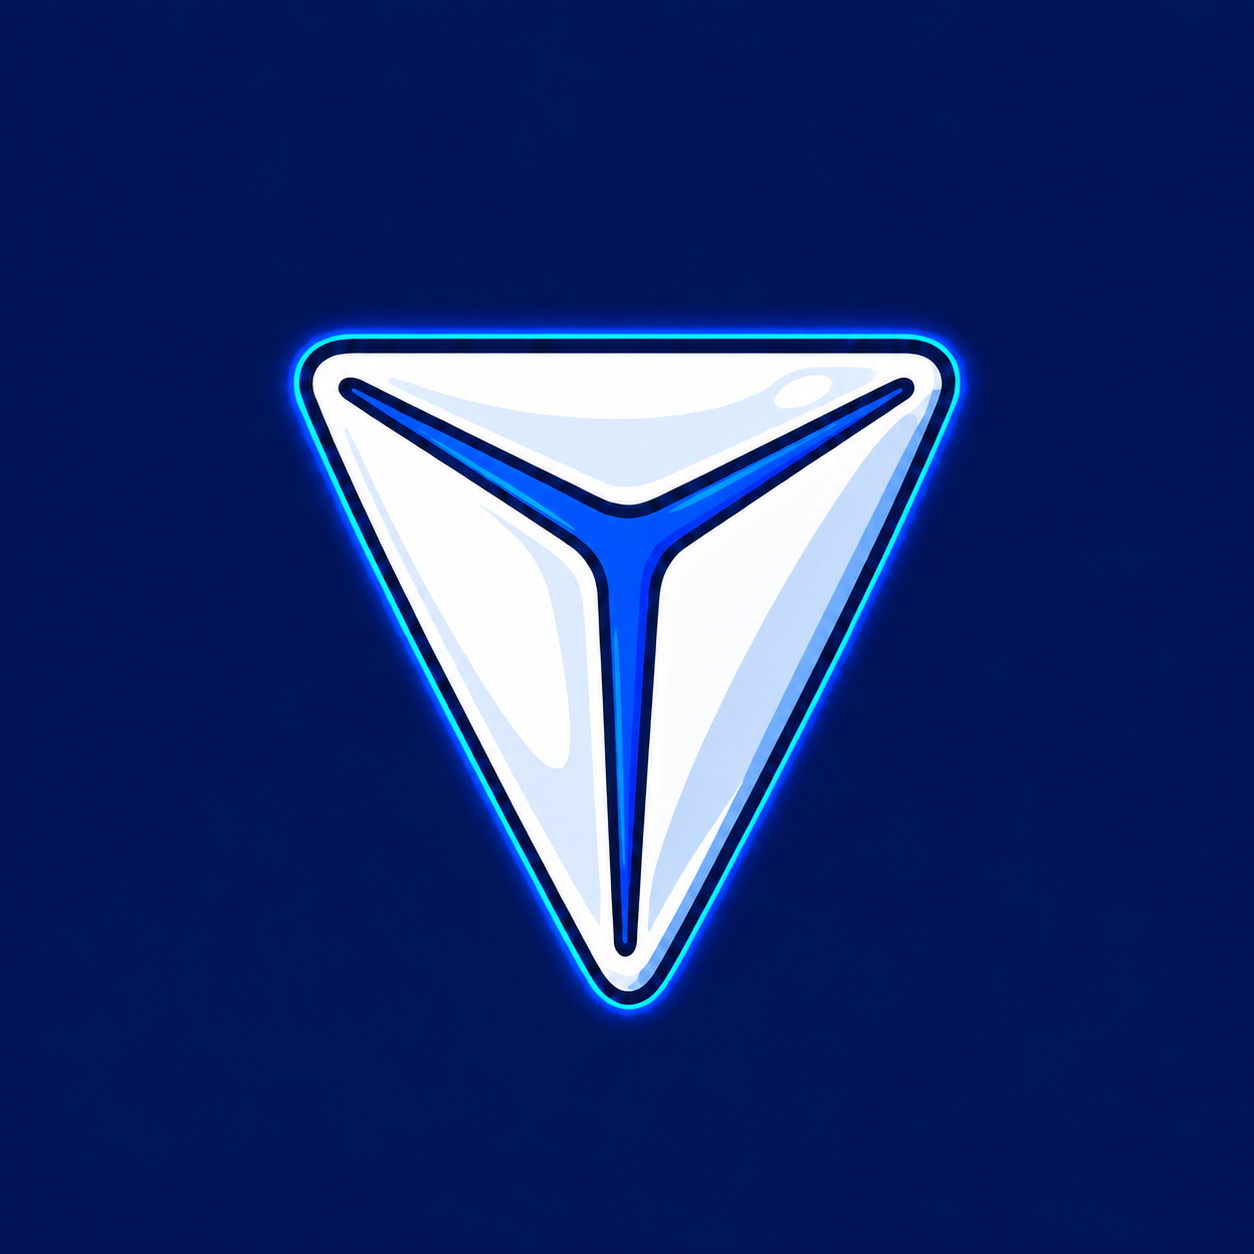
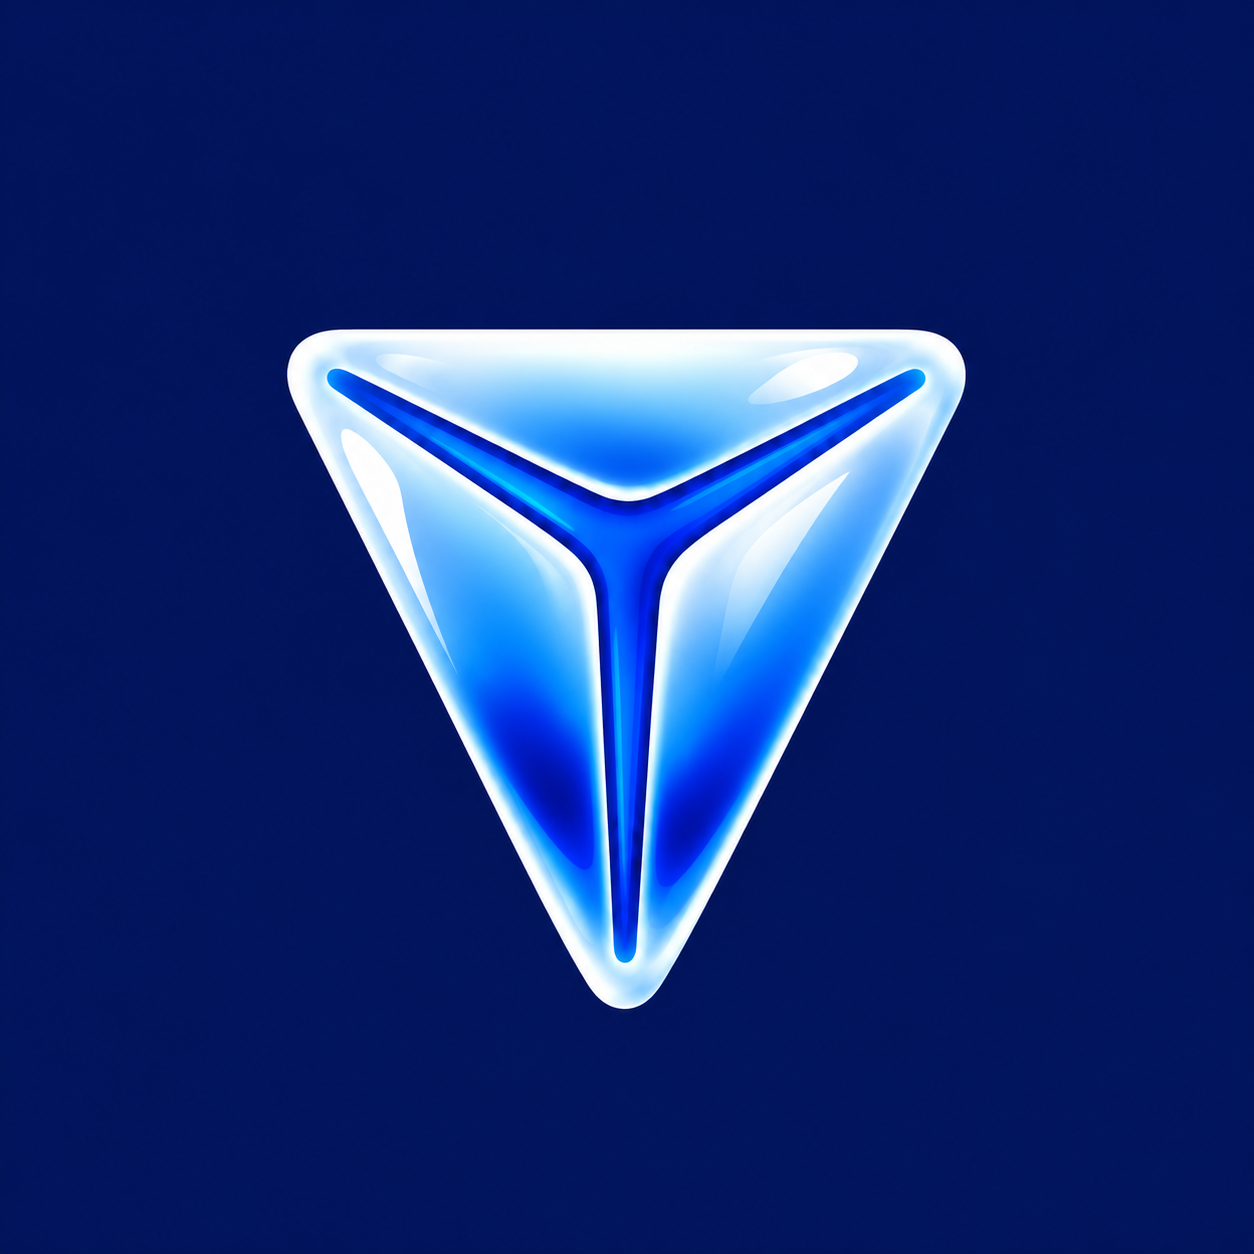
Новый стеклянный логотип Deepal Tools

Changed region(s): [[0.2177, 0.2488, 0.7775, 0.8397]]

diff --git a/donate/index.html b/donate/index.html
@@ -12,12 +12,12 @@
 <meta property="og:site_name" content="Deepal Tools">
 <meta property="og:url" content="https://deepaltools.github.io/donate/">
 <!-- Широкая обложка 1200×630: с ней Telegram и другие показывают большое превью ссылки. -->
-<meta property="og:image" content="https://deepaltools.github.io/assets/preview-donate.png">
+<meta property="og:image" content="https://deepaltools.github.io/assets/preview-donate.png?v=2">
 <meta property="og:image:width" content="1200">
 <meta property="og:image:height" content="630">
 <meta name="twitter:card" content="summary_large_image">
-<link rel="icon" href="../assets/deepal-tools.png">
-<link rel="apple-touch-icon" href="../assets/deepal-tools.png">
+<link rel="icon" href="../assets/deepal-tools.png?v=2">
+<link rel="apple-touch-icon" href="../assets/deepal-tools.png?v=2">
 <link rel="preconnect" href="https://fonts.googleapis.com">
 <link rel="preconnect" href="https://fonts.gstatic.com" crossorigin>
 <link href="https://fonts.googleapis.com/css2?family=Inter:wght@400;500;600;700&family=Unbounded:wght@500;700&display=swap" rel="stylesheet">
@@ -265,7 +265,7 @@
 </head>
 <body>
 <main>
-  <img class="mark" src="../assets/deepal-tools.png" alt="Deepal Tools" width="300" height="300">
+  <img class="mark" src="../assets/deepal-tools.png?v=2" alt="Deepal Tools" width="300" height="300">
 
   <h1>Поддержать Deepal&nbsp;Tools</h1>
   <p class="lede">Все приложения бесплатные. Если они вам пригодились, выберите, как поддержать проект.</p>

diff --git a/index.html b/index.html
@@ -12,12 +12,12 @@
 <meta property="og:site_name" content="Deepal Tools">
 <meta property="og:url" content="https://deepaltools.github.io/">
 <!-- Широкая обложка 1200×630: с ней Telegram и другие показывают большое превью ссылки. -->
-<meta property="og:image" content="https://deepaltools.github.io/assets/preview.png">
+<meta property="og:image" content="https://deepaltools.github.io/assets/preview.png?v=2">
 <meta property="og:image:width" content="1200">
 <meta property="og:image:height" content="630">
 <meta name="twitter:card" content="summary_large_image">
-<link rel="icon" href="assets/deepal-tools.png">
-<link rel="apple-touch-icon" href="assets/deepal-tools.png">
+<link rel="icon" href="assets/deepal-tools.png?v=2">
+<link rel="apple-touch-icon" href="assets/deepal-tools.png?v=2">
 <link rel="preconnect" href="https://fonts.googleapis.com">
 <link rel="preconnect" href="https://fonts.gstatic.com" crossorigin>
 <link href="https://fonts.googleapis.com/css2?family=Inter:wght@400;500;600;700&family=Unbounded:wght@500;700&display=swap" rel="stylesheet">
@@ -260,7 +260,7 @@
 </head>
 <body>
 <main>
-  <img class="mark" src="assets/deepal-tools.png" alt="Deepal Tools" width="300" height="300">
+  <img class="mark" src="assets/deepal-tools.png?v=2" alt="Deepal Tools" width="300" height="300">
 
   <h1>Deepal&nbsp;Tools</h1>
   <p class="lede">Бесплатные приложения для Deepal</p>
